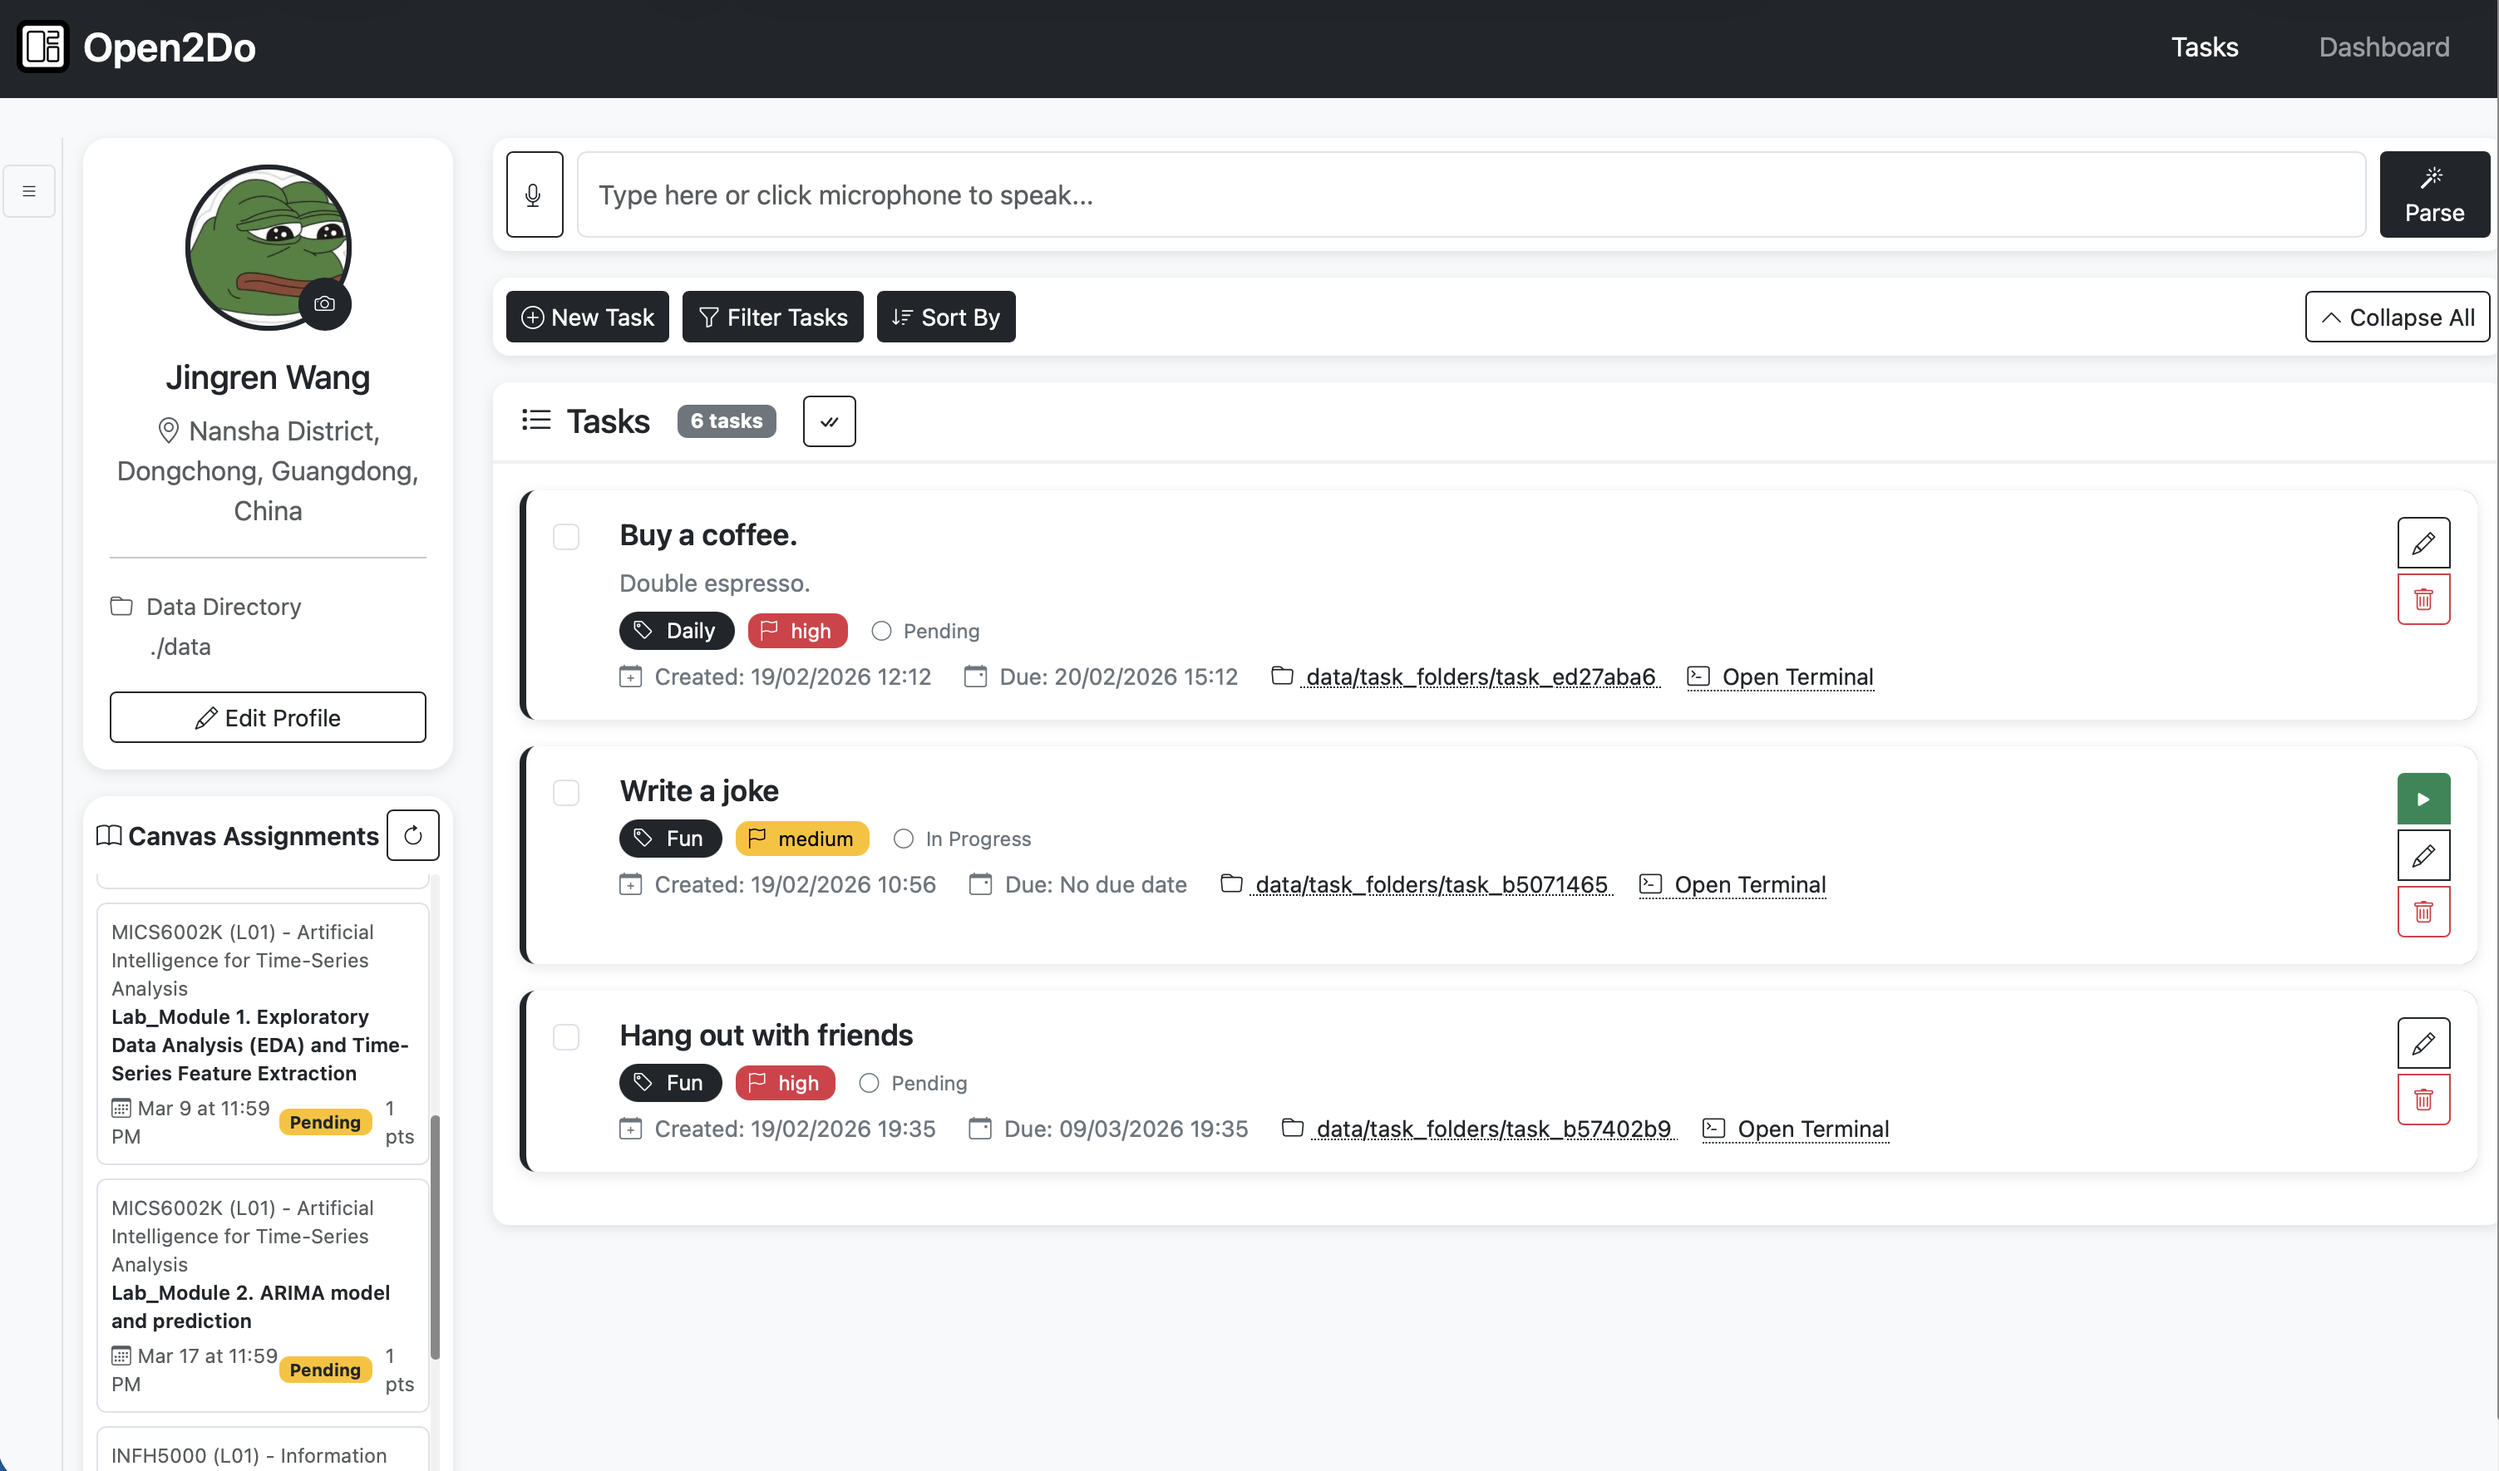
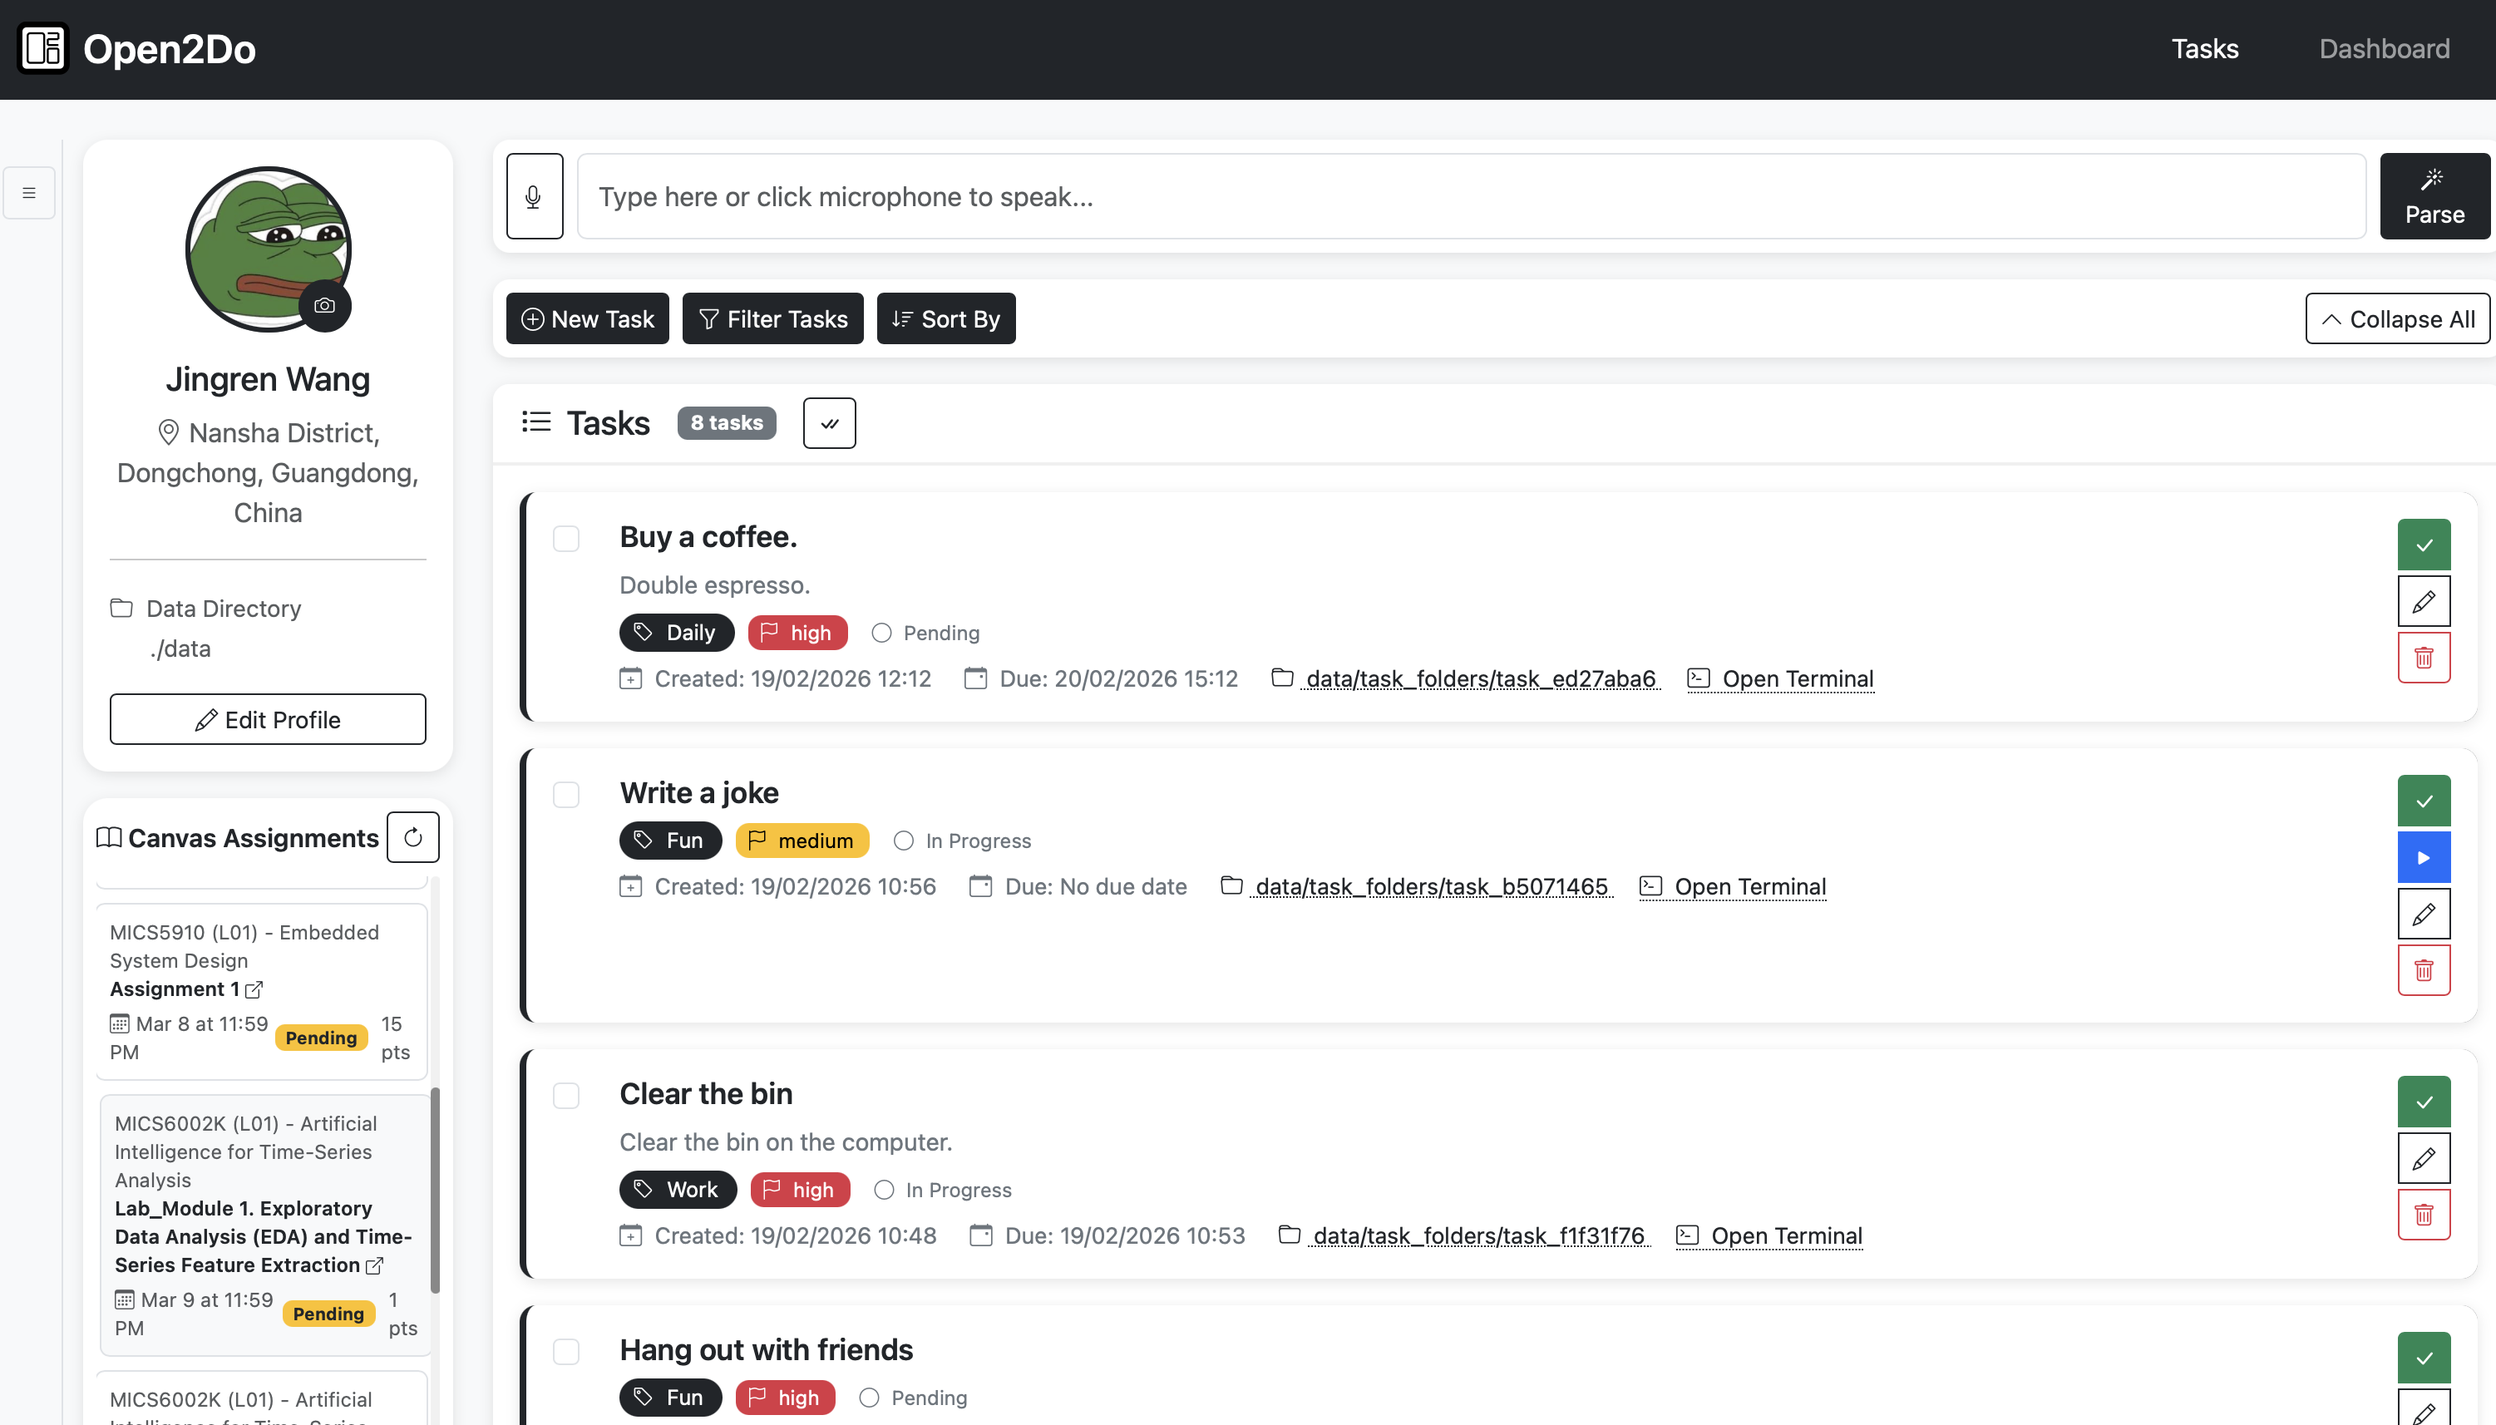
Update(Tick): Tick to complete

diff --git a/app/static/js/app.js b/app/static/js/app.js
@@ -514,9 +514,25 @@ function createTaskCard(task) {
     
     // Build buttons
     let buttonsHtml = '';
+    
+    // Check button (mark as completed)
+    if (task.status !== 'completed') {
+        buttonsHtml += `
+            <button class="btn btn-sm btn-success btn-icon mb-1" onclick="markAsCompleted('${task.id}')" title="Mark as Completed">
+                <i class="bi bi-check-lg"></i>
+            </button>
+        `;
+    } else {
+        buttonsHtml += `
+            <button class="btn btn-sm btn-success btn-icon mb-1" onclick="markAsPending('${task.id}')" title="Mark as Pending">
+                <i class="bi bi-arrow-counterclockwise"></i>
+            </button>
+        `;
+    }
+    
     if (hasAIButton) {
         buttonsHtml += `
-            <button class="btn btn-sm btn-success btn-icon mb-1" onclick="executeTask('${task.id}')" title="Execute Task">
+            <button class="btn btn-sm btn-primary btn-icon mb-1" onclick="executeTask('${task.id}')" title="Execute Task">
                 <i class="bi bi-play-fill"></i>
             </button>
         `;
@@ -696,6 +712,50 @@ async function deleteTask(taskId) {
     } catch (error) {
         console.error('Error deleting task:', error);
         alert('Error deleting task');
+    }
+}
+
+// Mark task as completed
+async function markAsCompleted(taskId) {
+    try {
+        const response = await fetch(`/api/tasks/${taskId}`, {
+            method: 'PUT',
+            headers: {
+                'Content-Type': 'application/json'
+            },
+            body: JSON.stringify({ status: 'completed' })
+        });
+        
+        if (response.ok) {
+            await loadTasks();
+        } else {
+            alert('Failed to mark task as completed');
+        }
+    } catch (error) {
+        console.error('Error marking task as completed:', error);
+        alert('Error marking task as completed');
+    }
+}
+
+// Mark task as pending (undo completion)
+async function markAsPending(taskId) {
+    try {
+        const response = await fetch(`/api/tasks/${taskId}`, {
+            method: 'PUT',
+            headers: {
+                'Content-Type': 'application/json'
+            },
+            body: JSON.stringify({ status: 'pending' })
+        });
+        
+        if (response.ok) {
+            await loadTasks();
+        } else {
+            alert('Failed to mark task as pending');
+        }
+    } catch (error) {
+        console.error('Error marking task as pending:', error);
+        alert('Error marking task as pending');
     }
 }
 

diff --git a/app/templates/index.html b/app/templates/index.html
@@ -445,6 +445,6 @@
     <div class="toast-container position-fixed bottom-0 end-0 p-3" id="toastContainer"></div>
 
     <script src="https://cdn.jsdelivr.net/npm/bootstrap@5.3.2/dist/js/bootstrap.bundle.min.js"></script>
-    <script src="/static/js/app.js?v=20"></script>
+    <script src="/static/js/app.js?v=21"></script>
 </body>
 </html>
